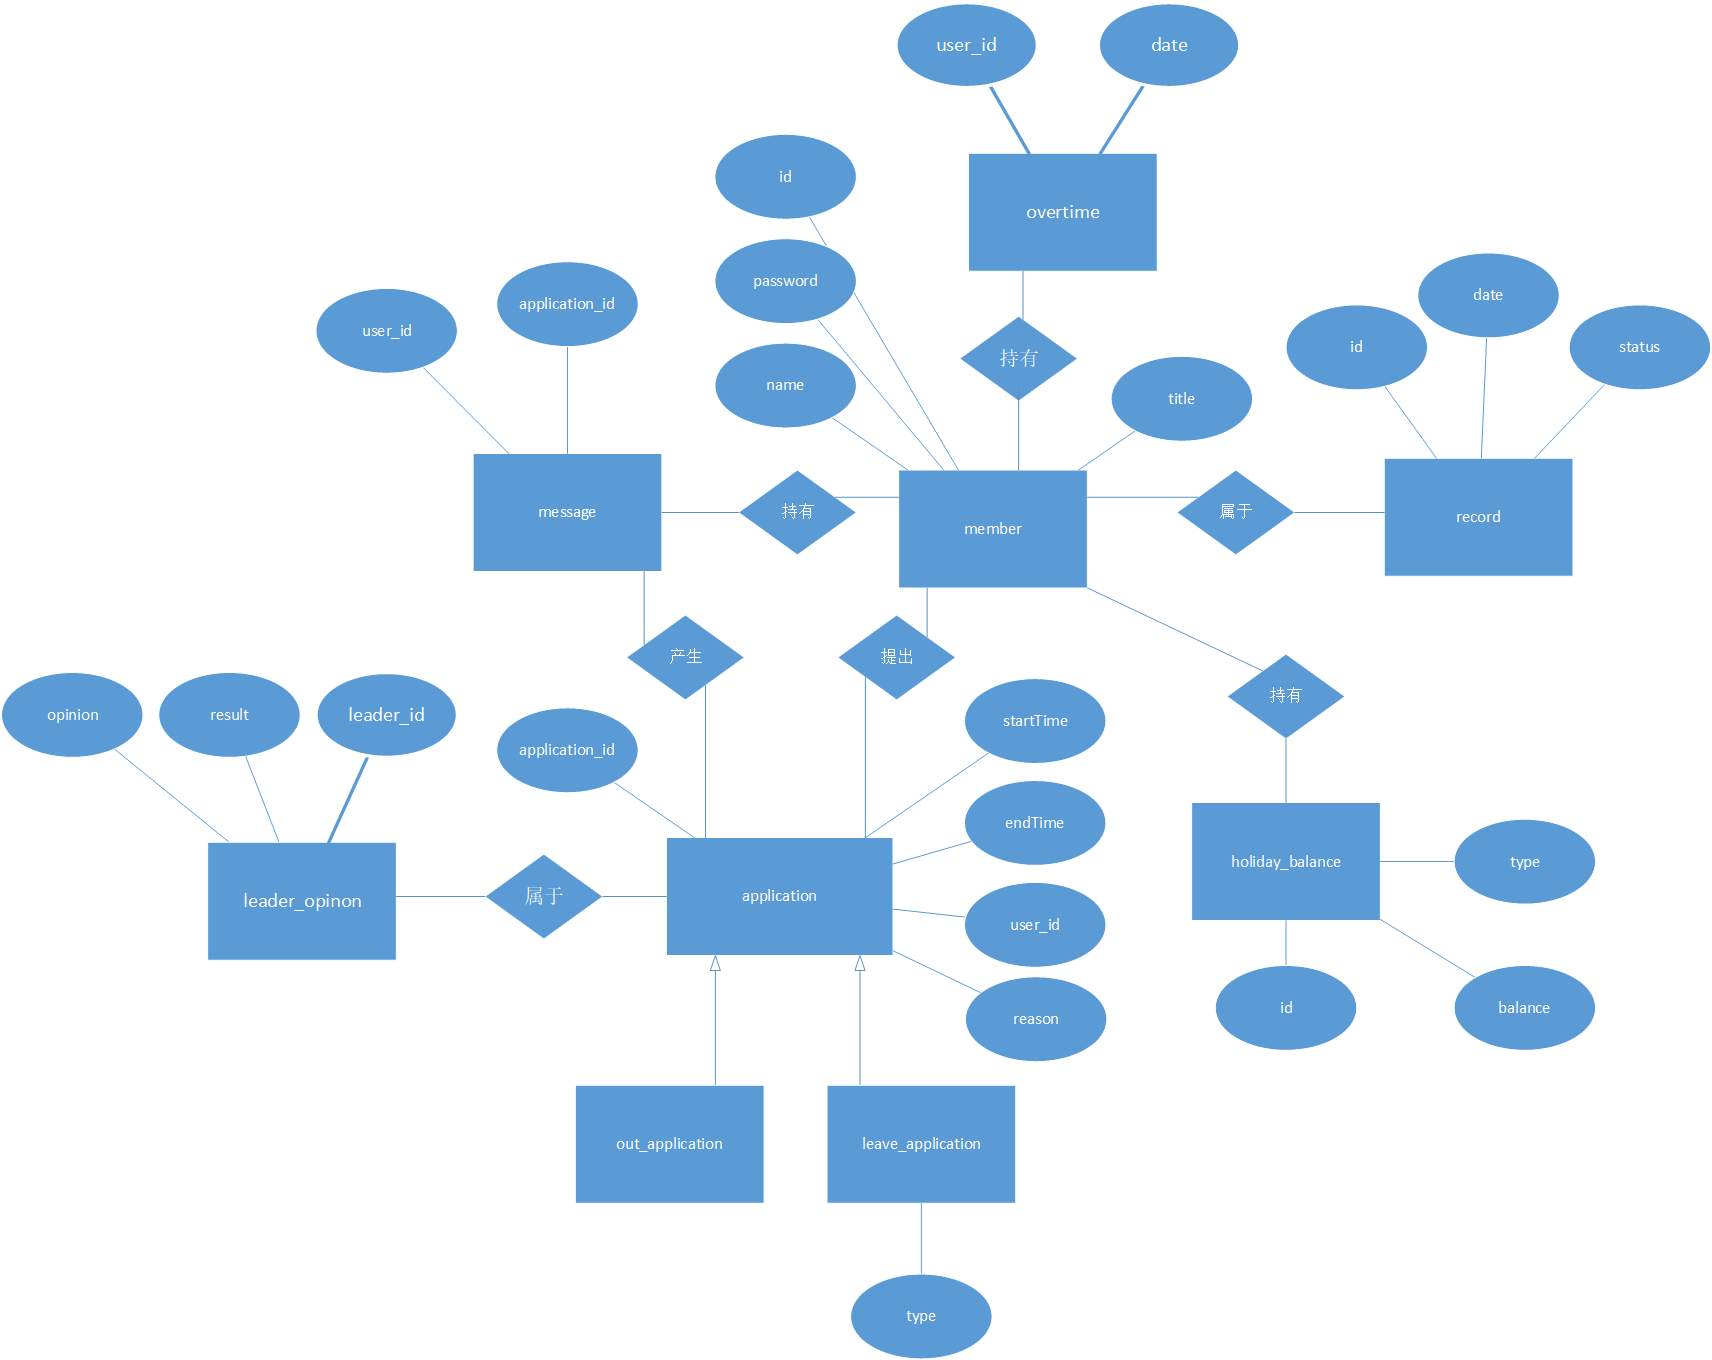
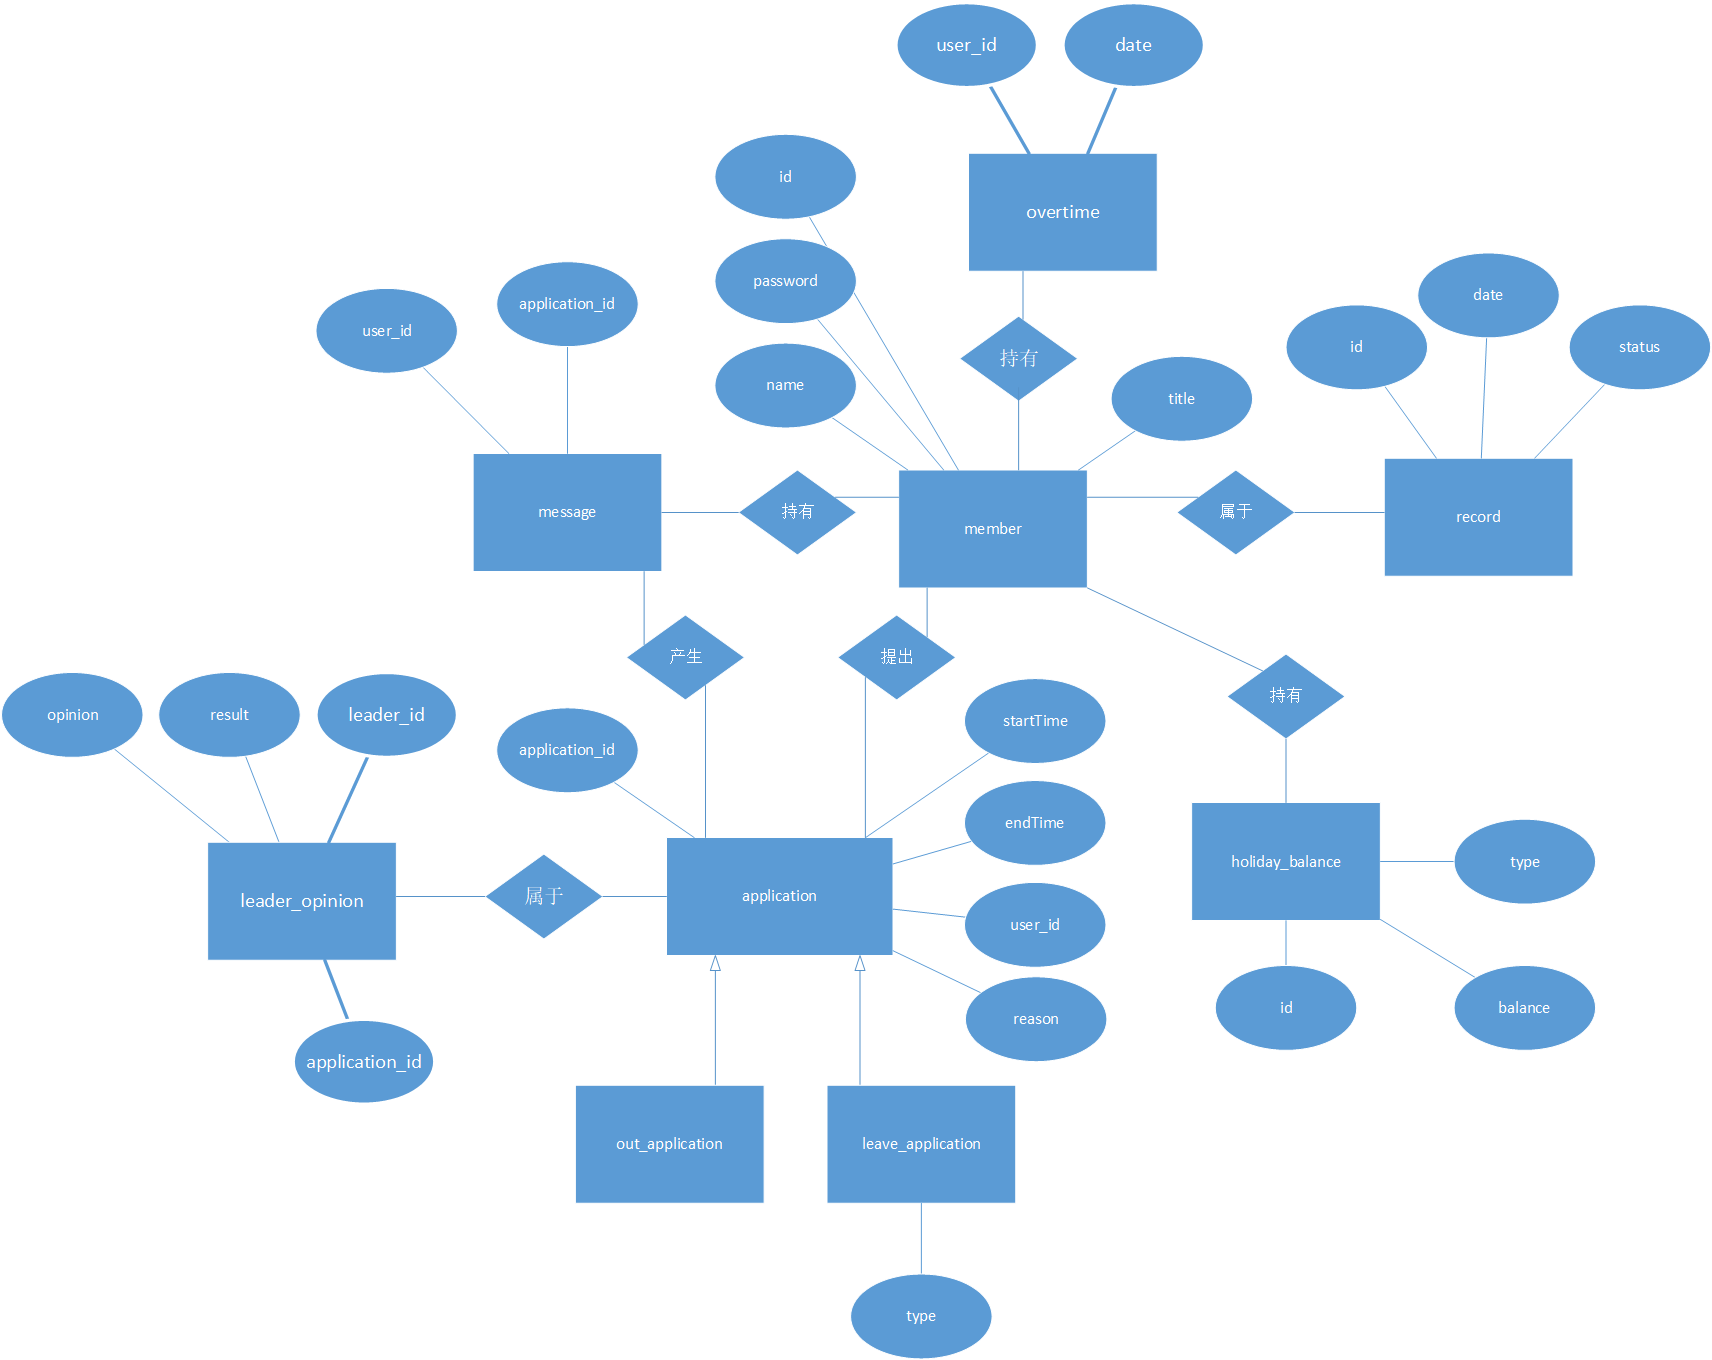
完成MemberDao; 增加数据库文件; 修改E/R图

Changed region(s): [[0.6192, 0.0, 0.743, 0.0926], [0.1548, 0.7412, 0.2786, 0.8338], [0.1548, 0.6485, 0.2167, 0.6794]]

diff --git a/demo/src/main/java/demo/demo/dao/MemberDao.java b/demo/src/main/java/demo/demo/dao/MemberDao.java
@@ -1,0 +1,39 @@
+package demo.demo.dao;
+
+import org.springframework.beans.factory.annotation.Autowired;
+import org.springframework.jdbc.core.JdbcTemplate;
+import org.springframework.stereotype.Service;
+
+import demo.demo.entity.Member;
+import demo.demo.mappers.MemberRowMapper;
+
+import java.util.List;
+import java.util.Map;
+
+@Service
+public class MemberDao {
+
+    @Autowired
+    public JdbcTemplate jdbcTemplate;
+
+    // 根据 id 返回一条 member 记录, 并返回Member对象
+    public Member qureyUser(String id){
+        String sql = "select * from member where id = ?";
+        Member member = jdbcTemplate.queryForObject(sql, new MemberRowMapper(), id);
+        return member;
+    } 
+
+    // 根据 id 返回对应的 password 数据
+    public String qureyUserPassword(String id){
+        String sql = "select password from member where id = ?";
+        Map<String, Object> result = jdbcTemplate.queryForMap(sql, id);
+        return (String)result.getOrDefault("password", "null");
+    }
+
+    // 查询所有员工的所有信息
+    public List<Member> qureyMembersList(){
+        String sql = "select * from member";
+        List<Member> members = jdbcTemplate.query(sql, new MemberRowMapper());
+        return members;
+    }
+}
